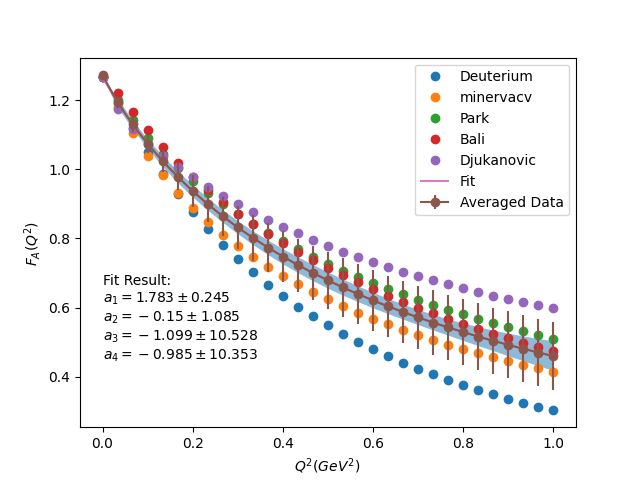
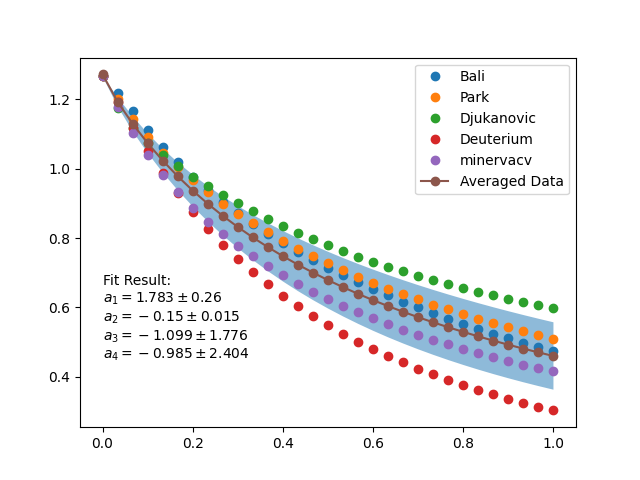
Fit to standard dev, add cov

diff --git a/zexpfitter.py b/zexpfitter.py
@@ -6,6 +6,13 @@ from scipy.optimize import curve_fit
 import numpy as np
 import seaborn as sns
 
+def CalcCov(a, spls, smin):
+    C = np.zeros((4, 4))
+    for i in range(len(a)):
+        for j in range(len(a)):
+            C[i][j] = (1/2)*((a[i] - spls[i])*(a[j] - spls[j]) + (a[i] - smin[i])*(a[j] - smin[j]))
+    return C
+
 def Dipole(Q2, MA):
     fFA0 = -1.2670
     return -fFA0*(1+Q2/MA**2)**-2
@@ -192,24 +199,27 @@ def main(output, inputs):
     # force error for constraint for FA(0)
     avg_ydataerr[0] = 0.0023
 
-    plt.errorbar(xvals, avg_ydata, yerr=avg_ydataerr, label="Averaged Data", marker='o')
-    glob_popt, glob_pcov = curve_fit(FFzexp, xvals, avg_ydata, sigma=avg_ydataerr, absolute_sigma=True)
+    #plt.errorbar(xvals, avg_ydata, yerr=avg_ydataerr, label="Averaged Data", marker='o')
+    plt.errorbar(xvals, avg_ydata, label="Averaged Data", marker='o')
+    glob_popt, _ = curve_fit(FFzexp, xvals, avg_ydata)
+    upper_glob_popt, _ = curve_fit(FFzexp, xvals, avg_ydata + avg_ydataerr)
+    lower_glob_popt, _ = curve_fit(FFzexp, xvals, avg_ydata - avg_ydataerr)
+    print("cv: ", glob_popt) 
+    print("upper - cv: ", upper_glob_popt - glob_popt) 
+    print("cv - lower: ", glob_popt - lower_glob_popt) 
 
+    ErrorMag = upper_glob_popt - glob_popt
     param_str = "Fit Result:\n"
     for i in range(len(glob_popt)):
-        param_str += r"$a_"+str(i+1)+" = "+str(round(glob_popt[i], 3))+" \pm "+str(round(np.sqrt(np.diag(glob_pcov))[i], 3))+"$\n"
+        param_str += r"$a_"+str(i+1)+" = "+str(round(glob_popt[i], 3))+" \pm "+str(round(abs(ErrorMag[i]), 3))+"$\n"
     plt.text(0.0, 0.4, param_str)
-    plt.xlabel(r"$Q^2 (GeV^2)$ ")
-    plt.ylabel(r"$F_{A}(Q^2)$ ")
-    plt.plot(xvals, FFzexp(xvals, *glob_popt), label="Fit")
-    ErrorMag = FFzexpErr(xvals, glob_pcov, glob_popt)
-    plt.fill_between(xvals, FFzexp(xvals, *glob_popt) - ErrorMag, FFzexp(xvals, *glob_popt) + ErrorMag, alpha=0.5)
+    plt.fill_between(xvals, FFzexp(xvals, *upper_glob_popt), FFzexp(xvals, *lower_glob_popt), alpha=0.5)
     plt.legend()
     plt.savefig(output) 
     plt.clf()
 
     coeffs = ['a1', 'a2', 'a3', 'a4']
-    sns.heatmap(glob_pcov, annot=True, fmt='g', xticklabels=coeffs, yticklabels=coeffs)
+    sns.heatmap(CalcCov(glob_popt, upper_glob_popt - glob_popt, glob_popt - lower_glob_popt), annot=True, fmt='g', xticklabels=coeffs, yticklabels=coeffs)
     plt.savefig('cov.png')
     plt.clf()
 

diff --git a/README.md b/README.md
@@ -1,3 +1,8 @@
-Problems that need to be addressed/fixed in current method:
-1. Very large error on a3 and a4 due to FA(Q2) poorly contraining higher order terms.
-2. Cross terms in covariance matrix for a3 and a4 being large and negative causing reduction in overall error.
+Z-Expansion fit using some data-thief'd results.
+
+1. Extract results from json files.
+2. Individually fit each result to Z-Expansion.
+3. Plot each fit as a function of Q2.
+4. At each Q2 point take values from each of the fits, take average and standard dev.
+5. Fit the average and std lines to Z-Expansion. Extract error from difference in std and avg coeffs.
+6. Calculate covariance, print results.
